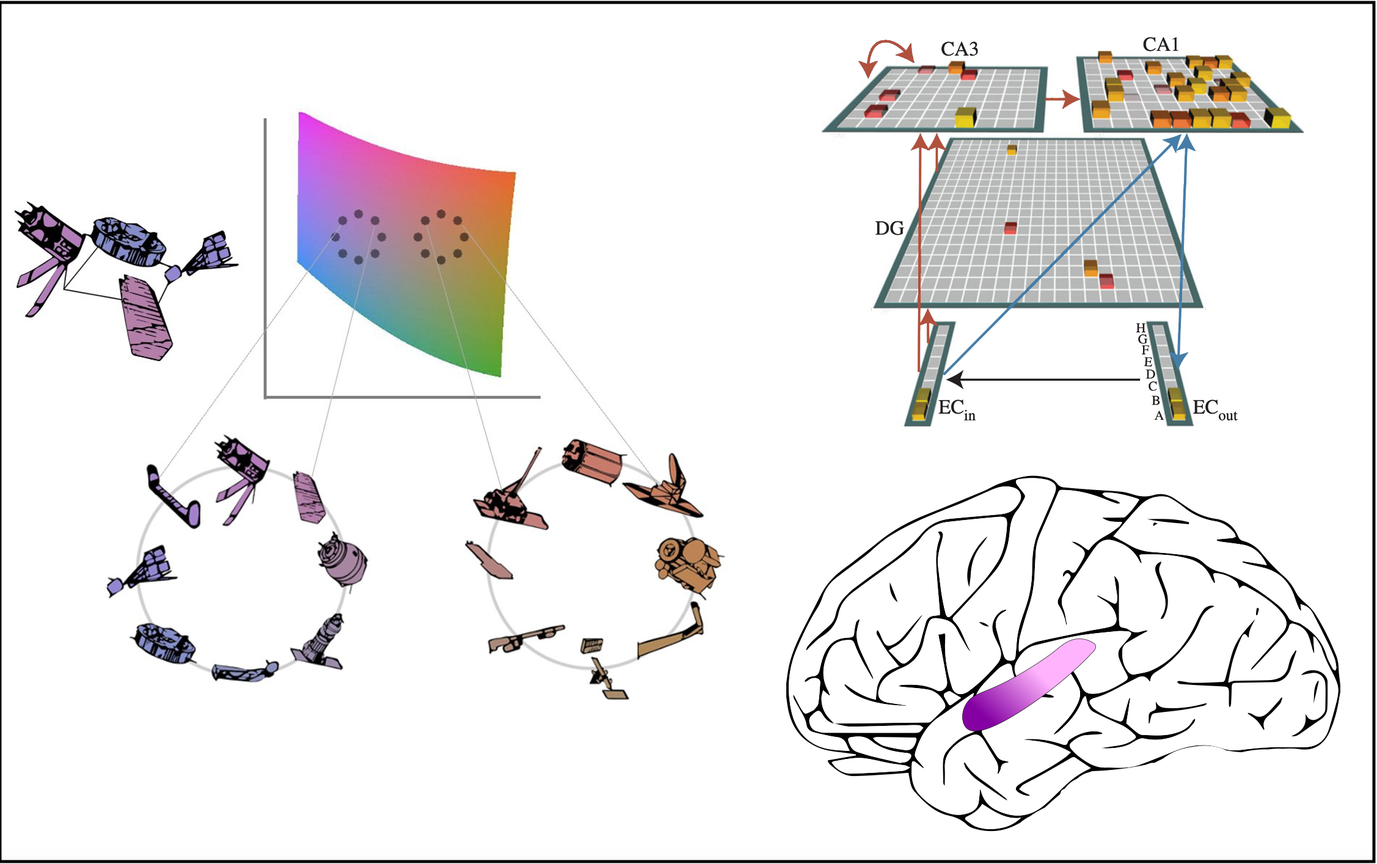
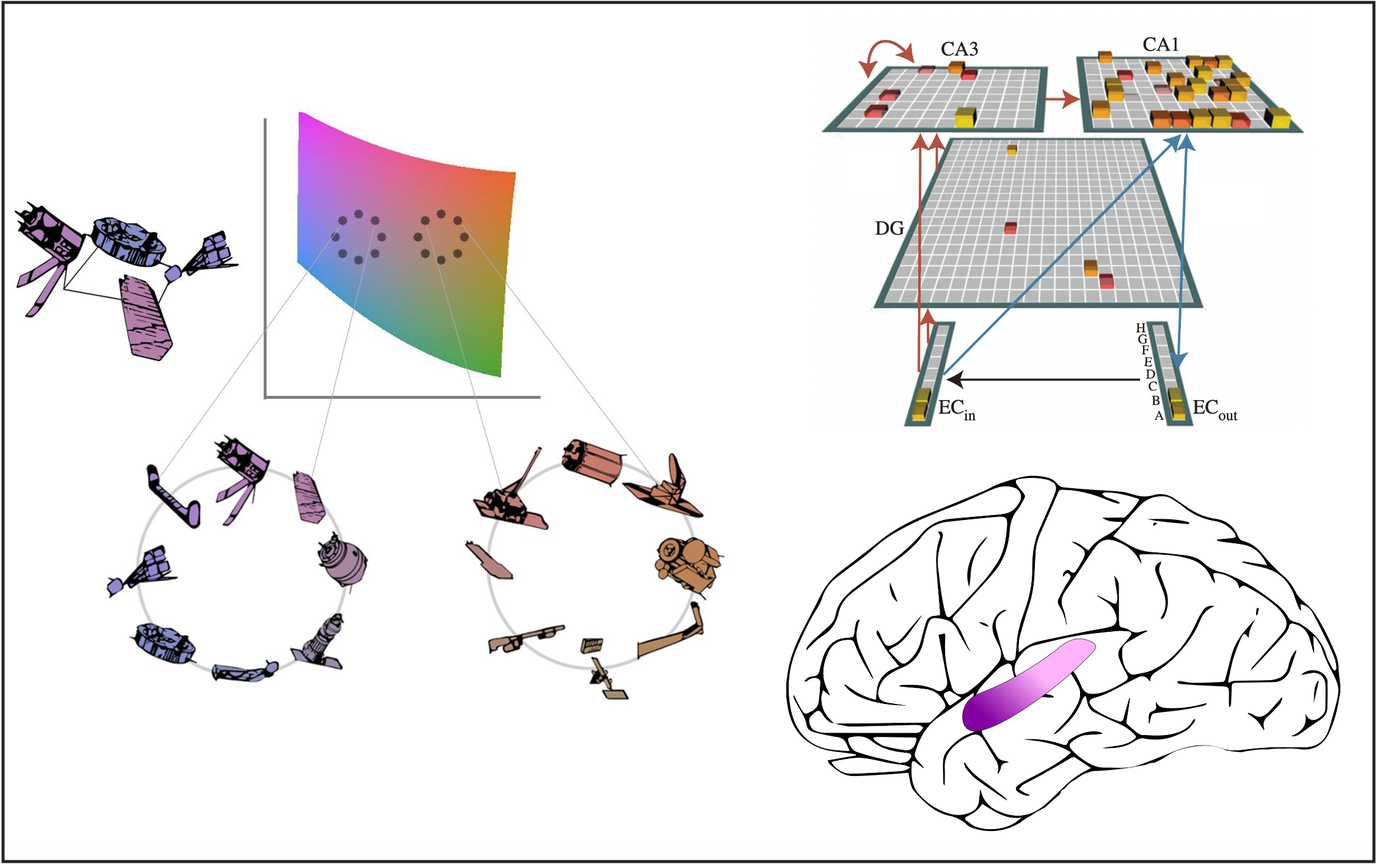
deploy: 42af44d995b3800b1f2da327315cb5c4160eb974

Changed region(s): [[0.0, 0.0, 1.0, 1.0], [0.0, 0.0, 0.0311, 0.0311]]

diff --git a/project/example/index.html b/project/example/index.html
@@ -2,7 +2,7 @@
 <span><i class="fas fa-bars"></i></span></button><div class="navbar-brand-mobile-wrapper d-inline-flex d-lg-none"><a class=navbar-brand href=/>Marlie</a></div><div class="navbar-collapse main-menu-item collapse justify-content-start" id=navbar-content><ul class="navbar-nav d-md-inline-flex"><li class=nav-item><a class=nav-link href=/#about><span>About</span></a></li><li class=nav-item><a class=nav-link href=/#projects><span>Projects</span></a></li><li class=nav-item><a class=nav-link href=/#featured><span>Publications</span></a></li><li class=nav-item><a class=nav-link href=/#fun_projects><span>Fun</span></a></li><li class=nav-item><a class=nav-link href=/#contact><span>Contact</span></a></li></ul></div><ul class="nav-icons navbar-nav flex-row ml-auto d-flex pl-md-2"><li class="nav-item dropdown theme-dropdown"><a href=# class=nav-link data-toggle=dropdown aria-haspopup=true aria-label="Display preferences"><i class="fas fa-moon" aria-hidden=true></i></a><div class=dropdown-menu><a href=# class="dropdown-item js-set-theme-light"><span>Light</span></a>
 <a href=# class="dropdown-item js-set-theme-dark"><span>Dark</span></a>
 <a href=# class="dropdown-item js-set-theme-auto"><span>Automatic</span></a></div></li></ul></div></nav></header></div><div class=page-body><article class="article article-project"><div class="article-container pt-3"><h1>Memory biases in behavior, brains, and machines</h1><div class=article-metadata><span class=article-date>Apr 27, 2022</span></div><div class="btn-links mb-3"><a class="btn btn-outline-primary btn-page-header" href=/project/example/tandoc_sfn_2022_website.pdf>Slides (2022)</a>
-<a class="btn btn-outline-primary btn-page-header" href="https://www.youtube.com/watch?v=GUU7jgyh9VQ" target=_blank rel=noopener>Video (2021)</a></div></div><div class="article-header article-container featured-image-wrapper mt-4 mb-4" style=max-width:720px;max-height:452px><div style=position:relative><img src=/project/example/featured_hu7f153efca2022ce5e20c7ad0cb5a94f9_1583776_720x2500_fit_q100_h2_lanczos_3.webp width=720 height=452 alt class=featured-image>
+<a class="btn btn-outline-primary btn-page-header" href="https://www.youtube.com/watch?v=GUU7jgyh9VQ" target=_blank rel=noopener>Video (2021)</a></div></div><div class="article-header article-container featured-image-wrapper mt-4 mb-4" style=max-width:720px;max-height:452px><div style=position:relative><img src=/project/example/featured_hu19a9875474c1010ee22fef975a1f0adf_1583965_720x2500_fit_q100_h2_lanczos_3.webp width=720 height=452 alt class=featured-image>
 <span class=article-header-caption>Figures from my talk at Neuroscience &lsquo;22</span></div></div><div class=article-container><div class=article-style><p>Lorem ipsum dolor sit amet, consectetur adipiscing elit. Duis posuere tellus ac convallis placerat. Proin tincidunt magna sed ex sollicitudin condimentum. Sed ac faucibus dolor, scelerisque sollicitudin nisi. Cras purus urna, suscipit quis sapien eu, pulvinar tempor diam. Quisque risus orci, mollis id ante sit amet, gravida egestas nisl. Sed ac tempus magna. Proin in dui enim. Donec condimentum, sem id dapibus fringilla, tellus enim condimentum arcu, nec volutpat est felis vel metus. Vestibulum sit amet erat at nulla eleifend gravida.</p></div><div class=article-tags><a class="badge badge-light" href=/tag/research/>Research</a></div><div class=share-box><ul class=share><li><a href="https://twitter.com/intent/tweet?url=https%3A%2F%2Fmarlietandoc.github.io%2Fproject%2Fexample%2F&text=Memory+biases+in+behavior%2C+brains%2C+and+machines" target=_blank rel=noopener class=share-btn-twitter aria-label=twitter><i class="fab fa-twitter"></i></a></li><li><a href="https://www.facebook.com/sharer.php?u=https%3A%2F%2Fmarlietandoc.github.io%2Fproject%2Fexample%2F&t=Memory+biases+in+behavior%2C+brains%2C+and+machines" target=_blank rel=noopener class=share-btn-facebook aria-label=facebook><i class="fab fa-facebook"></i></a></li><li><a href="mailto:?subject=Memory%20biases%20in%20behavior%2C%20brains%2C%20and%20machines&body=https%3A%2F%2Fmarlietandoc.github.io%2Fproject%2Fexample%2F" target=_blank rel=noopener class=share-btn-email aria-label=envelope><i class="fas fa-envelope"></i></a></li><li><a href="https://www.linkedin.com/shareArticle?url=https%3A%2F%2Fmarlietandoc.github.io%2Fproject%2Fexample%2F&title=Memory+biases+in+behavior%2C+brains%2C+and+machines" target=_blank rel=noopener class=share-btn-linkedin aria-label=linkedin-in><i class="fab fa-linkedin-in"></i></a></li><li><a href="whatsapp://send?text=Memory+biases+in+behavior%2C+brains%2C+and+machines%20https%3A%2F%2Fmarlietandoc.github.io%2Fproject%2Fexample%2F" target=_blank rel=noopener class=share-btn-whatsapp aria-label=whatsapp><i class="fab fa-whatsapp"></i></a></li><li><a href="https://service.weibo.com/share/share.php?url=https%3A%2F%2Fmarlietandoc.github.io%2Fproject%2Fexample%2F&title=Memory+biases+in+behavior%2C+brains%2C+and+machines" target=_blank rel=noopener class=share-btn-weibo aria-label=weibo><i class="fab fa-weibo"></i></a></li></ul></div><div class="media author-card content-widget-hr"><a href=https://marlietandoc.github.io><img class="avatar mr-3 avatar-circle" src=/authors/admin/avatar_hueba7e0cf128b86411ae73594ae945d48_4677449_270x270_fill_q100_lanczos_center.jpg alt="Marlie Tandoc"></a><div class=media-body><h5 class=card-title><a href=https://marlietandoc.github.io>Marlie Tandoc</a></h5><h6 class=card-subtitle>PhD candidate, researcher, psychologist, neuroscientist</h6><p class=card-text>Researcher, psychologist, neuroscientist</p><ul class=network-icon aria-hidden=true><li><a href=/#contact><i class="fas fa-envelope"></i></a></li><li><a href=https://twitter.com/MarlieTandoc target=_blank rel=noopener><i class="fab fa-twitter"></i></a></li><li><a href="https://scholar.google.com/citations?user=Ui3NuzwAAAAJ&hl=en" target=_blank rel=noopener><i class="fas fa-graduation-cap"></i></a></li><li><a href=https://github.com/marlietandoc target=_blank rel=noopener><i class="fab fa-github"></i></a></li><li><a href=https://www.linkedin.com/in/marlietandoc/ target=_blank rel=noopener><i class="fab fa-linkedin"></i></a></li></ul></div></div><div class="project-related-pages content-widget-hr"><h2>Events</h2><div class="media stream-item view-compact"><div class=media-body><div class="section-subheading article-title mb-0 mt-0"><a href=/talk/example-talk/>Example Talk</a></div><a href=/talk/example-talk/ class=summary-link><div class=article-style>An example talk using Wowchemy&rsquo;s Markdown slides feature.</div></a><div class="stream-meta article-metadata"><div><span>Jun 1, 2030 1:00 PM &mdash; 3:00 PM</span>
 <span class=middot-divider></span>
 <span>Wowchemy HQ</span></div></div><div class=btn-links><a class="btn btn-outline-primary btn-page-header btn-sm" href=/project/example/>Project</a>

diff --git a/index.html b/index.html
@@ -9,7 +9,7 @@ where we integrate behavioral studies, neuroimaging, and neural networks to impr
 <a href=# data-filter=.js-id-research class="btn btn-primary btn-lg">Research</a>
 <a href=# data-filter=.js-id-code class="btn btn-primary btn-lg">Code</a></div></div></div></div><div class="isotope projects-container row js-layout-row project-showcase"><div class="col-12 isotope-item js-id-research"><div class="col-lg-12 mb-5 view-showcase"><div class="row align-items-center"><div class="col-12 col-md-6"><div class="section-subheading article-title mb-0 mt-0"><a href=/project/example/>Memory biases in behavior, brains, and machines</a></div><div class=article-style>Our memories are not perfect recordings of the past. But are prone to bias and misinformation. As part of my PhD work, I have been identifying what kind of memories are most susceptible to such biases. By combining behavioral experiments, fMRI, and neural networks, we show that memory biases similarly exist in humans and machines. And we find, that they are not just random errors, but are a product of an optimal learning system. I recently presented this work as a talk (see slides below) at one of the biggest conferences in the world
 <a href=https://www.sfn.org/meetings/neuroscience-2022 target=_blank>Neuroscience 2022.</a></div><div class=btn-links><a class="btn btn-outline-primary btn-page-header" href=/project/example/tandoc_sfn_2022_website.pdf>Slides (2022)</a>
-<a class="btn btn-outline-primary btn-page-header" href="https://www.youtube.com/watch?v=GUU7jgyh9VQ" target=_blank rel=noopener>Video (2021)</a></div></div><div class="col-12 col-md-6 order-first"><a href=/project/example/><img src=/project/example/featured_hu7f153efca2022ce5e20c7ad0cb5a94f9_1583776_540x0_resize_q100_h2_lanczos_3.webp height=339 width=540 alt="Memory biases in behavior, brains, and machines" loading=lazy></a></div></div></div></div><div class="col-12 isotope-item js-id-research"><div class="col-lg-12 mb-5 view-showcase"><div class="row align-items-center"><div class="col-12 col-md-6"><div class="section-subheading article-title mb-0 mt-0"><a href=/project/iaq/>Impacts of indoor air quality on cognitive performance</a></div><div class=article-style>In this wide-scale interdisciplinary collaboration between psychologists, engineers, and chemists, we are researching how indoor air quality (CO2) and common household products (essential oil diffusers) impact everyday cognition and decision-making, providing actionable insights into why good ventilation is so important.</div><div class=btn-links><a class="btn btn-outline-primary btn-page-header" href=https://onlinelibrary.wiley.com/doi/abs/10.1111/ina.12706 target=_blank rel=noopener>CO2 Paper</a>
+<a class="btn btn-outline-primary btn-page-header" href="https://www.youtube.com/watch?v=GUU7jgyh9VQ" target=_blank rel=noopener>Video (2021)</a></div></div><div class="col-12 col-md-6 order-first"><a href=/project/example/><img src=/project/example/featured_hu19a9875474c1010ee22fef975a1f0adf_1583965_540x0_resize_q100_h2_lanczos_3.webp height=339 width=540 alt="Memory biases in behavior, brains, and machines" loading=lazy></a></div></div></div></div><div class="col-12 isotope-item js-id-research"><div class="col-lg-12 mb-5 view-showcase"><div class="row align-items-center"><div class="col-12 col-md-6"><div class="section-subheading article-title mb-0 mt-0"><a href=/project/iaq/>Impacts of indoor air quality on cognitive performance</a></div><div class=article-style>In this wide-scale interdisciplinary collaboration between psychologists, engineers, and chemists, we are researching how indoor air quality (CO2) and common household products (essential oil diffusers) impact everyday cognition and decision-making, providing actionable insights into why good ventilation is so important.</div><div class=btn-links><a class="btn btn-outline-primary btn-page-header" href=https://onlinelibrary.wiley.com/doi/abs/10.1111/ina.12706 target=_blank rel=noopener>CO2 Paper</a>
 <a class="btn btn-outline-primary btn-page-header" href=https://onlinelibrary.wiley.com/doi/epdf/10.1111/ina.12919 target=_blank rel=noopener>Essential Oil Paper</a></div></div><div class="col-12 col-md-6 order-first order-md-2"><a href=/project/iaq/><img src=/project/iaq/featured_hue1d17847e66aa908cbbd4d6c623a77d5_118961_540x0_resize_q100_h2_lanczos.webp height=360 width=540 alt="Impacts of indoor air quality on cognitive performance" loading=lazy></a></div></div></div></div><div class="col-12 isotope-item js-id-research"><div class="col-lg-12 mb-5 view-showcase"><div class="row align-items-center"><div class="col-12 col-md-6"><div class="section-subheading article-title mb-0 mt-0"><a href=/project/tod/>The brain&rsquo;s internal clock</a></div><div class=article-style>Not a morning person? Most people below the age of 30 also think so. In this collaboration with Harvard Medical School, we A/B tested how learning differs in the morning vs. evening across 7 experiments. We find that the morning is the optimal time to learn new information, especially when we have to apply what we learned to new scenarios.</div><div class=btn-links><a class="btn btn-outline-primary btn-page-header" href="https://journals.plos.org/plosone/article?id=10.1371/journal.pone.0255423" target=_blank rel=noopener>Paper</a>
 <a class="btn btn-outline-primary btn-page-header" href=https://doi.org/10.1371/journal.pone.0255423.s007 target=_blank rel=noopener>Dataset</a></div></div><div class="col-12 col-md-6 order-first"><a href=/project/tod/><img src=/project/tod/featured_hu84561b1a398d5c884d61e9feb832d922_587518_540x0_resize_q100_h2_lanczos_3.webp height=300 width=540 alt="The brain's internal clock" loading=lazy></a></div></div></div></div></div></div></div></div></section><section id=featured class="home-section wg-collection"><div class=home-section-bg></div><div class=container><div class=row><div class="section-heading col-12 col-lg-4 mb-3 mb-lg-0 d-flex flex-column align-items-center align-items-lg-start"><h1 class=mb-0>Featured Publications</h1></div><div class="col-12 col-lg-8"><div class="card-simple view-card"><div class=article-metadata><div><span class=author-highlighted>Marlie Tandoc</span>, <span>Bharat Nadendla</span>, <span>Theresa Pham</span>, <span>Amy Finn</span></div><span class=article-date>September, 2022</span>
 <span class=middot-divider></span>

diff --git a/project/index.html b/project/index.html
@@ -3,7 +3,7 @@
 <a href=# class="dropdown-item js-set-theme-dark"><span>Dark</span></a>
 <a href=# class="dropdown-item js-set-theme-auto"><span>Automatic</span></a></div></li></ul></div></nav></header></div><div class=page-body><div class="universal-wrapper pt-3"><h1>Projects</h1></div><div class=universal-wrapper><div class="media stream-item view-compact"><div class=media-body><div class="section-subheading article-title mb-0 mt-0"><a href=/project/example/>Memory biases in behavior, brains, and machines</a></div><a href=/project/example/ class=summary-link><div class=article-style>Our memories are not perfect recordings of the past. But are prone to bias and misinformation. As part of my PhD work, I have been identifying what kind of memories are most susceptible to such biases. By combining behavioral experiments, fMRI, and neural networks, we show that memory biases similarly exist in humans and machines. And we find, that they are not just random errors, but are a product of an optimal learning system. I recently presented this work as a talk (see slides below) at one of the biggest conferences in the world
 <a href=https://www.sfn.org/meetings/neuroscience-2022 target=_blank>Neuroscience 2022.</a></div></a><div class="stream-meta article-metadata"></div><div class=btn-links><a class="btn btn-outline-primary btn-page-header btn-sm" href=/project/example/tandoc_sfn_2022_website.pdf>Slides (2022)</a>
-<a class="btn btn-outline-primary btn-page-header btn-sm" href="https://www.youtube.com/watch?v=GUU7jgyh9VQ" target=_blank rel=noopener>Video (2021)</a></div></div><div class=ml-3><a href=/project/example/><img src=/project/example/featured_hu7f153efca2022ce5e20c7ad0cb5a94f9_1583776_150x0_resize_q100_h2_lanczos_3.webp height=94 width=150 alt="Memory biases in behavior, brains, and machines" loading=lazy></a></div></div><div class="media stream-item view-compact"><div class=media-body><div class="section-subheading article-title mb-0 mt-0"><a href=/project/iaq/>Impacts of indoor air quality on cognitive performance</a></div><a href=/project/iaq/ class=summary-link><div class=article-style>In this wide-scale interdisciplinary collaboration between psychologists, engineers, and chemists, we are researching how indoor air quality (CO2) and common household products (essential oil diffusers) impact everyday cognition and decision-making, providing actionable insights into why good ventilation is so important.</div></a><div class="stream-meta article-metadata"></div><div class=btn-links><a class="btn btn-outline-primary btn-page-header btn-sm" href=https://onlinelibrary.wiley.com/doi/abs/10.1111/ina.12706 target=_blank rel=noopener>CO2 Paper</a>
+<a class="btn btn-outline-primary btn-page-header btn-sm" href="https://www.youtube.com/watch?v=GUU7jgyh9VQ" target=_blank rel=noopener>Video (2021)</a></div></div><div class=ml-3><a href=/project/example/><img src=/project/example/featured_hu19a9875474c1010ee22fef975a1f0adf_1583965_150x0_resize_q100_h2_lanczos_3.webp height=94 width=150 alt="Memory biases in behavior, brains, and machines" loading=lazy></a></div></div><div class="media stream-item view-compact"><div class=media-body><div class="section-subheading article-title mb-0 mt-0"><a href=/project/iaq/>Impacts of indoor air quality on cognitive performance</a></div><a href=/project/iaq/ class=summary-link><div class=article-style>In this wide-scale interdisciplinary collaboration between psychologists, engineers, and chemists, we are researching how indoor air quality (CO2) and common household products (essential oil diffusers) impact everyday cognition and decision-making, providing actionable insights into why good ventilation is so important.</div></a><div class="stream-meta article-metadata"></div><div class=btn-links><a class="btn btn-outline-primary btn-page-header btn-sm" href=https://onlinelibrary.wiley.com/doi/abs/10.1111/ina.12706 target=_blank rel=noopener>CO2 Paper</a>
 <a class="btn btn-outline-primary btn-page-header btn-sm" href=https://onlinelibrary.wiley.com/doi/epdf/10.1111/ina.12919 target=_blank rel=noopener>Essential Oil Paper</a></div></div><div class=ml-3><a href=/project/iaq/><img src=/project/iaq/featured_hue1d17847e66aa908cbbd4d6c623a77d5_118961_150x0_resize_q100_h2_lanczos.webp height=100 width=150 alt="Impacts of indoor air quality on cognitive performance" loading=lazy></a></div></div><div class="media stream-item view-compact"><div class=media-body><div class="section-subheading article-title mb-0 mt-0"><a href=/project/tod/>The brain's internal clock</a></div><a href=/project/tod/ class=summary-link><div class=article-style>Not a morning person? Most people below the age of 30 also think so. In this collaboration with Harvard Medical School, we A/B tested how learning differs in the morning vs. evening across 7 experiments. We find that the morning is the optimal time to learn new information, especially when we have to apply what we learned to new scenarios.</div></a><div class="stream-meta article-metadata"></div><div class=btn-links><a class="btn btn-outline-primary btn-page-header btn-sm" href="https://journals.plos.org/plosone/article?id=10.1371/journal.pone.0255423" target=_blank rel=noopener>Paper</a>
 <a class="btn btn-outline-primary btn-page-header btn-sm" href=https://doi.org/10.1371/journal.pone.0255423.s007 target=_blank rel=noopener>Dataset</a></div></div><div class=ml-3><a href=/project/tod/><img src=/project/tod/featured_hu84561b1a398d5c884d61e9feb832d922_587518_150x0_resize_q100_h2_lanczos_3.webp height=83 width=150 alt="The brain's internal clock" loading=lazy></a></div></div></div></div><div class=page-footer><div class=container><footer class=site-footer><p class=powered-by>Published with <a href="https://wowchemy.com/?utm_campaign=poweredby" target=_blank rel=noopener>Wowchemy</a> — the free, <a href=https://github.com/wowchemy/wowchemy-hugo-themes target=_blank rel=noopener>open source</a> website builder that empowers creators.</p></footer></div></div><script src=/js/vendor-bundle.min.d26509351aa0ff874abbee824e982e9b.js></script>
 <script id=search-hit-fuse-template type=text/x-template>

diff --git a/tag/research/index.html b/tag/research/index.html
@@ -3,7 +3,7 @@
 <a href=# class="dropdown-item js-set-theme-dark"><span>Dark</span></a>
 <a href=# class="dropdown-item js-set-theme-auto"><span>Automatic</span></a></div></li></ul></div></nav></header></div><div class=page-body><div class="universal-wrapper pt-3"><h1>Research</h1></div><div class=universal-wrapper><div class="media stream-item view-compact"><div class=media-body><div class="section-subheading article-title mb-0 mt-0"><a href=/project/example/>Memory biases in behavior, brains, and machines</a></div><a href=/project/example/ class=summary-link><div class=article-style>Our memories are not perfect recordings of the past. But are prone to bias and misinformation. As part of my PhD work, I have been identifying what kind of memories are most susceptible to such biases. By combining behavioral experiments, fMRI, and neural networks, we show that memory biases similarly exist in humans and machines. And we find, that they are not just random errors, but are a product of an optimal learning system. I recently presented this work as a talk (see slides below) at one of the biggest conferences in the world
 <a href=https://www.sfn.org/meetings/neuroscience-2022 target=_blank>Neuroscience 2022.</a></div></a><div class="stream-meta article-metadata"></div><div class=btn-links><a class="btn btn-outline-primary btn-page-header btn-sm" href=/project/example/tandoc_sfn_2022_website.pdf>Slides (2022)</a>
-<a class="btn btn-outline-primary btn-page-header btn-sm" href="https://www.youtube.com/watch?v=GUU7jgyh9VQ" target=_blank rel=noopener>Video (2021)</a></div></div><div class=ml-3><a href=/project/example/><img src=/project/example/featured_hu7f153efca2022ce5e20c7ad0cb5a94f9_1583776_150x0_resize_q100_h2_lanczos_3.webp height=94 width=150 alt="Memory biases in behavior, brains, and machines" loading=lazy></a></div></div><div class="media stream-item view-compact"><div class=media-body><div class="section-subheading article-title mb-0 mt-0"><a href=/project/iaq/>Impacts of indoor air quality on cognitive performance</a></div><a href=/project/iaq/ class=summary-link><div class=article-style>In this wide-scale interdisciplinary collaboration between psychologists, engineers, and chemists, we are researching how indoor air quality (CO2) and common household products (essential oil diffusers) impact everyday cognition and decision-making, providing actionable insights into why good ventilation is so important.</div></a><div class="stream-meta article-metadata"></div><div class=btn-links><a class="btn btn-outline-primary btn-page-header btn-sm" href=https://onlinelibrary.wiley.com/doi/abs/10.1111/ina.12706 target=_blank rel=noopener>CO2 Paper</a>
+<a class="btn btn-outline-primary btn-page-header btn-sm" href="https://www.youtube.com/watch?v=GUU7jgyh9VQ" target=_blank rel=noopener>Video (2021)</a></div></div><div class=ml-3><a href=/project/example/><img src=/project/example/featured_hu19a9875474c1010ee22fef975a1f0adf_1583965_150x0_resize_q100_h2_lanczos_3.webp height=94 width=150 alt="Memory biases in behavior, brains, and machines" loading=lazy></a></div></div><div class="media stream-item view-compact"><div class=media-body><div class="section-subheading article-title mb-0 mt-0"><a href=/project/iaq/>Impacts of indoor air quality on cognitive performance</a></div><a href=/project/iaq/ class=summary-link><div class=article-style>In this wide-scale interdisciplinary collaboration between psychologists, engineers, and chemists, we are researching how indoor air quality (CO2) and common household products (essential oil diffusers) impact everyday cognition and decision-making, providing actionable insights into why good ventilation is so important.</div></a><div class="stream-meta article-metadata"></div><div class=btn-links><a class="btn btn-outline-primary btn-page-header btn-sm" href=https://onlinelibrary.wiley.com/doi/abs/10.1111/ina.12706 target=_blank rel=noopener>CO2 Paper</a>
 <a class="btn btn-outline-primary btn-page-header btn-sm" href=https://onlinelibrary.wiley.com/doi/epdf/10.1111/ina.12919 target=_blank rel=noopener>Essential Oil Paper</a></div></div><div class=ml-3><a href=/project/iaq/><img src=/project/iaq/featured_hue1d17847e66aa908cbbd4d6c623a77d5_118961_150x0_resize_q100_h2_lanczos.webp height=100 width=150 alt="Impacts of indoor air quality on cognitive performance" loading=lazy></a></div></div><div class="media stream-item view-compact"><div class=media-body><div class="section-subheading article-title mb-0 mt-0"><a href=/fun_projects/tote/>MDRS 2022 conference totes</a></div><a href=/fun_projects/tote/ class=summary-link><div class=article-style>I combined AI-generated art (
 <a href=https://openai.com/dall-e-2/ target=_blank>DALL-E-2</a>
 ), Illustrator, and many prompt attempts. Winning prompt “Brain hot-air balloon floating over the skyline of Philadelphia, Children’s illustration"</div></a><div class="stream-meta article-metadata"><div class=article-metadata><span class=article-date>Apr 27, 2021</span></div></div><div class=btn-links></div></div><div class=ml-3><a href=/fun_projects/tote/><img src=/fun_projects/tote/featured_hu3ac96710640f32efb6d952708e68261d_3607471_150x0_resize_q100_h2_lanczos_3.webp height=150 width=150 alt="MDRS 2022 conference totes" loading=lazy></a></div></div><div class="media stream-item view-compact"><div class=media-body><div class="section-subheading article-title mb-0 mt-0"><a href=/fun_projects/brain/>My brain in the palm of my hand</a></div><a href=/fun_projects/brain/ class=summary-link><div class=article-style>3D printed by transforming a MRI scan into a printable model using my labmate&rsquo;s

diff --git a/post/writing-technical-content/index.html b/post/writing-technical-content/index.html
@@ -68,7 +68,7 @@ data.head()
       console.log('hello');
       console.log('code block');
       ```
-    - Math: $x = {-b \pm \sqrt{b^2-4ac} \over 2a}$</pre></div><h3 id=charts>Charts</h3><p>Wowchemy supports the popular <a href=https://plot.ly/ target=_blank rel=noopener>Plotly</a> format for interactive charts.</p><p>Save your Plotly JSON in your page folder, for example <code>line-chart.json</code>, and then add the <code>{{&lt; chart data="line-chart" >}}</code> shortcode where you would like the chart to appear.</p><p>Demo:</p><div id=chart-276154389 class=chart></div><script>(function(){let e=setInterval(function(){if(typeof window.Plotly=="undefined")return;clearInterval(e),Plotly.d3.json("./line-chart.json",function(e){Plotly.plot("chart-276154389",e.data,e.layout,{responsive:!0})})},500)})()</script><p>You might also find the <a href=http://plotly-json-editor.getforge.io/ target=_blank rel=noopener>Plotly JSON Editor</a> useful.</p><h3 id=math>Math</h3><p>Wowchemy supports a Markdown extension for $\LaTeX$ math. You can enable this feature by toggling the <code>math</code> option in your <code>config/_default/params.yaml</code> file.</p><p>To render <em>inline</em> or <em>block</em> math, wrap your LaTeX math with <code>{{&lt; math >}}$...${{&lt; /math >}}</code> or <code>{{&lt; math >}}$$...$${{&lt; /math >}}</code>, respectively. (We wrap the LaTeX math in the Wowchemy <em>math</em> shortcode to prevent Hugo rendering our math as Markdown. The <em>math</em> shortcode is new in v5.5-dev.)</p><p>Example <strong>math block</strong>:</p><div class=highlight><pre tabindex=0 class=chroma><code class=language-latex data-lang=latex><span class=line><span class=cl><span class=nb>{{</span>&lt; math &gt;<span class=nb>}}</span>
+    - Math: $x = {-b \pm \sqrt{b^2-4ac} \over 2a}$</pre></div><h3 id=charts>Charts</h3><p>Wowchemy supports the popular <a href=https://plot.ly/ target=_blank rel=noopener>Plotly</a> format for interactive charts.</p><p>Save your Plotly JSON in your page folder, for example <code>line-chart.json</code>, and then add the <code>{{&lt; chart data="line-chart" >}}</code> shortcode where you would like the chart to appear.</p><p>Demo:</p><div id=chart-137586492 class=chart></div><script>(function(){let e=setInterval(function(){if(typeof window.Plotly=="undefined")return;clearInterval(e),Plotly.d3.json("./line-chart.json",function(e){Plotly.plot("chart-137586492",e.data,e.layout,{responsive:!0})})},500)})()</script><p>You might also find the <a href=http://plotly-json-editor.getforge.io/ target=_blank rel=noopener>Plotly JSON Editor</a> useful.</p><h3 id=math>Math</h3><p>Wowchemy supports a Markdown extension for $\LaTeX$ math. You can enable this feature by toggling the <code>math</code> option in your <code>config/_default/params.yaml</code> file.</p><p>To render <em>inline</em> or <em>block</em> math, wrap your LaTeX math with <code>{{&lt; math >}}$...${{&lt; /math >}}</code> or <code>{{&lt; math >}}$$...$${{&lt; /math >}}</code>, respectively. (We wrap the LaTeX math in the Wowchemy <em>math</em> shortcode to prevent Hugo rendering our math as Markdown. The <em>math</em> shortcode is new in v5.5-dev.)</p><p>Example <strong>math block</strong>:</p><div class=highlight><pre tabindex=0 class=chroma><code class=language-latex data-lang=latex><span class=line><span class=cl><span class=nb>{{</span>&lt; math &gt;<span class=nb>}}</span>
 </span></span><span class=line><span class=cl><span class=sb>$$</span><span class=nb>
 </span></span></span><span class=line><span class=cl><span class=nb></span><span class=nv>\gamma</span><span class=nb>_{n} </span><span class=o>=</span><span class=nb> </span><span class=nv>\frac</span><span class=nb>{ </span><span class=nv>\left</span><span class=nb> | </span><span class=nv>\left</span><span class=nb> </span><span class=o>(</span><span class=nv>\mathbf</span><span class=nb> x_{n} </span><span class=o>-</span><span class=nb> </span><span class=nv>\mathbf</span><span class=nb> x_{n</span><span class=o>-</span><span class=m>1</span><span class=nb>} </span><span class=nv>\right</span><span class=nb> </span><span class=o>)</span><span class=nb>^T </span><span class=nv>\left</span><span class=nb> </span><span class=o>[</span><span class=nv>\nabla</span><span class=nb> F </span><span class=o>(</span><span class=nv>\mathbf</span><span class=nb> x_{n}</span><span class=o>)</span><span class=nb> </span><span class=o>-</span><span class=nb> </span><span class=nv>\nabla</span><span class=nb> F </span><span class=o>(</span><span class=nv>\mathbf</span><span class=nb> x_{n</span><span class=o>-</span><span class=m>1</span><span class=nb>}</span><span class=o>)</span><span class=nb> </span><span class=nv>\right</span><span class=nb> </span><span class=o>]</span><span class=nb> </span><span class=nv>\right</span><span class=nb> |}{</span><span class=nv>\left</span><span class=nb> </span><span class=nv>\|\nabla</span><span class=nb> F</span><span class=o>(</span><span class=nv>\mathbf</span><span class=nb>{x}_{n}</span><span class=o>)</span><span class=nb> </span><span class=o>-</span><span class=nb> </span><span class=nv>\nabla</span><span class=nb> F</span><span class=o>(</span><span class=nv>\mathbf</span><span class=nb>{x}_{n</span><span class=o>-</span><span class=m>1</span><span class=nb>}</span><span class=o>)</span><span class=nb> </span><span class=nv>\right</span><span class=nb> </span><span class=nv>\|</span><span class=nb>^</span><span class=m>2</span><span class=nb>}
 </span></span></span><span class=line><span class=cl><span class=nb></span><span class=s>$$</span>
